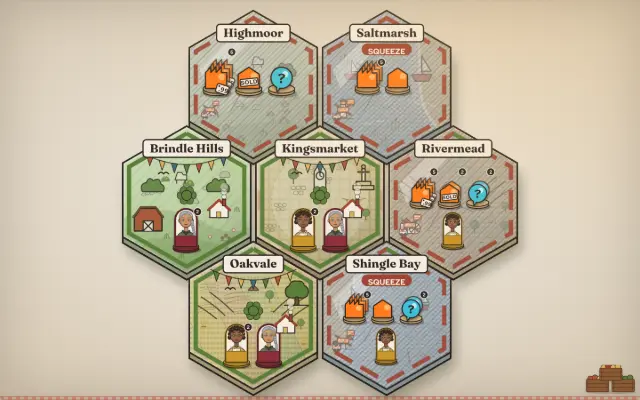
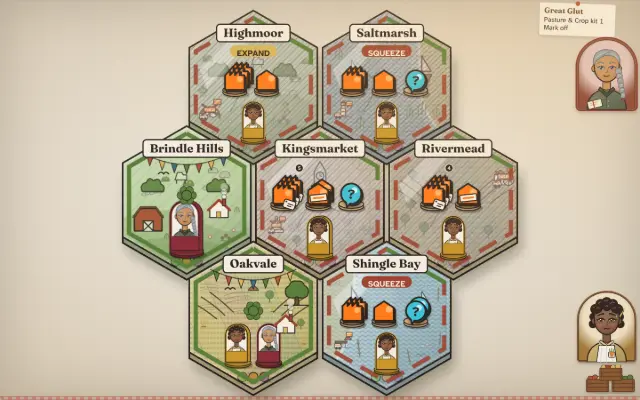
Cathnivore key art re-shot (item 172's board pieces); notes for the 19:51 lane A session
Claude-Session: https://claude.ai/code/session_01SimvMPv7qie5ycRgLqqZCp

diff --git a/PROGRESS.md b/PROGRESS.md
@@ -3,7 +3,7 @@
 Short by design (SPEC 16: under 150 lines). v1's full history (M0 to M7, every session's notes and the full deploy log) is in `docs/archive/PROGRESS-v1.md`; search it with grep and never read it in full.
 
 ## Now
-- Lane A (18:51): item 171 **done** (`81643fd8` Cathnivore dock, `a71e670f` Hedgerow's dock over the tray). Next open unclaimed: 172 (lane B has 174). **Check before releasing:** `site.spec.ts:327` (Hedgerow story, build a scarecrow, send a wave) fails locally at site-desktop on the old code too (seen 19:25); see if CI agrees. The **2026-11-05 19:51 session releases** if CI is green. `main` untouched at 9b4bfcfa.
+- Lane A (19:51): item 172 **done** (`1f48903e`); item 177 slice 1 (`0ca0b2a1`, Cathnivore points; Hedgerow and NIGHT SHIFT points open, still claimed by lane A). Release: the first run failed gate 5 on real CSP hits (Vignette style props on the 'Not yet' shelf; fixed `bc77dc45`) and a quick-game load timeout (passes alone); the second was killed with the worker (OOM: e2e run beside the gates; run nothing heavy beside a release). Third run: RELEASE_OUTCOME.
 - Critique bugs from the 09:35 shots (`e2e/screenshots/plan1103d/`): NIGHT SHIFT wordmark reportedly drops both 'H's at L and D (unconfirmed; the 14:55 D shot shows it whole). Runnel P's spring house and garden: closed 2026-11-04 (item 106).
 - Lane B: item 176 **done** (Runnel's desktop lesson panel as a field-notebook page). Items 126, 138 still claimed. `tests/keyart-fresh.test.ts` fails on build: Cathnivore's poster is older than its art (item 172's tokens), so `npm run keyart cathnivore` is owed; `hedgerow-swarm.spec.ts` at P times out (2026-11-05 20:21 session).
 - Critique bugs from the 2026-11-05 09:30 shots (`e2e/screenshots/plan1105c/`, lane B): `cath-title-D` pennant hint ~13 px white on brown (1030-1280 x 800-818) and footer ~12 px (310-1130 x 872-886); `cath-title-P` small keys' labels ~12 px (85-305 x 692-735); `cath-setup-D` seed 'random' low contrast (655-840 x 795-835); `hedge-l34-2d-D` '485 coming' over a farmer (300-395 x 128-150); `hedge-menu-P` 'Brand Ambassador' on the road (10-95 x 450-480); `ns-title-D` neon sign clipped at the top (790-1150 x 0-45); `ns-play-P` FIXER tab cut (340-390 x 68-82); `games-P` hero ghosted (likely shot mid-entrance: check before fixing).
@@ -37,6 +37,7 @@ None (Vercel deployed 9aee11e on 2026-10-12). (The App Store launch is postponed
 
 ## Session log (newest first, last 15)
 - **2026-11-05 20:21 lane B session:** CI red on 1f48903 (lane A, CSP fix after it). Item 176 done. Passing: runnel-lesson-notebook (new), critique91, lesson-hand, every runnel-* spec (practice and lesson-hand flaked once under load, passed alone) at phone and desktop; CSS lint, css-vars, runnel units. keyart-fresh fails on Cathnivore (not this change). Shots `t176` (D light and dark, P).
+- **2026-11-05 19:51 lane A session (release):** CI green on 40cd4712. Item 172 done (chunky tokens, piles, rows that step down; `e2e/board-tokens.spec.ts`); item 177 slice 1. Fixed the CSP gate (Vignette presentation attributes; csp.spec counts real declarations, not CSSOM custom properties). Passing: board-tokens (new, twice), board-pieces, -scales, -landmarks, region-closeup, csp, quick-game, player-mat, campaign-vignettes, table-producers, table-hand, tutorial, critique177 (new); piece-layout, region-ground, CSS lint. Shots `e2e/screenshots/p172`.
 - **2026-11-05 18:51 lane A session:** CI green on cf1c0137. Item 171 done (Cathnivore phone dock above the hand; Hedgerow phone dock over the tray). Passing: table-cath, moments, market-event-dressing, tutorial(-ch2), table-producers, accessibility, critique166, phone-hand-fan, rival (phone and desktop; disabled-actions flaked under load, passes alone and on the old code); hedgerow-catdock (new), -threat, -debrief, -flyin, -twists, -tray, -buildring, -round-chips, -critique(166), -depot, -gatequeue, -intro, -rack, site.spec's Hedgerow block; CSS lint. Shots `d171`.
 - **2026-11-05 19:21 lane B session:** CI green on 81643fd. Item 174 done. Passing: hedgerow-level-card (new), hedgerow-map (item 88 opens the phone sheet first), critique103 Hedgerow (vehicle names checked on their own line) at phone and desktop; CSS lint, css-vars, keyart-fresh. Shots `t174` (P peek and open, D, L, dark).
 - **2026-11-05 18:21 lane B session:** CI green on 5231691. Item 170 done (`63c7cce` and a clip fix). Passing: runnel-lesson-close (new), every runnel-* spec (runnel-water passed on rerun) at phone and desktop; CSS lint, css-vars, runnel units. Shots `t170` (lesson start, done, mid pull-back and daily, P and D).
@@ -50,4 +51,3 @@ None (Vercel deployed 9aee11e on 2026-10-12). (The App Store launch is postponed
 - **2026-11-05 13:51 lane A session:** CI green on 54ea9830. Item 160 slices 3-5 and done (`45185b65`, `c6271866`, `4ced28ab`). Item 153 slice 1. Passing: table-hand (new test), disabled-actions, action-hand, play-lift, suggest-move, tutorial (chromium); hedgerow-depot (new test, fails on the old code), -gatequeue, -map (new 153 test), -critique, -story, -intro, critique79, site.spec's Hedgerow block (site.spec:528 is the known load flake, passes alone); hedgerow unit; CSS lint and vars. Shots `e2e/screenshots/b160`. Full `npm run check` green on 0e95bfd9 (2393 tests, fuzz, build).
 - **2026-11-05 14:21 lane B session:** CI green on c627186; hedgerow-3dframe:111 passes again. Item 165 done (`placePhoneCath`; one-cath and lesson-frame specs updated from item 122).
 - **2026-11-05 12:51 lane A session:** CI green on 3fe88917. Planned items 160-165 (shots `plan1105d`, subagent critique). Item 163 done (`b31e49d8`; `e2e-site/hedgerow-rack.spec.ts`, shots `rack163`, key art re-shot). Item 160 slices 1-2 (`8532272a`, `5101ebac`). Passing: hedgerow-rack, -tray, -buildring, -3dframe (all, twice; :111 level 21 at P 10/10), Hedgerow unit tests (458), CSS lint and vars, keyart-fresh.
-- **2026-11-05 13:21 lane B session:** CI green on 3fe8891. Item 157 slice 3 and done (3D rep overlay, door at Go). hedgerow-3dframe:111 red on build at P and D (diagnosis started, noted under Now).

diff --git a/DECISIONS.md b/DECISIONS.md
@@ -253,3 +253,6 @@ Newest at the bottom. At most 5 lines per entry, under 250 lines in all (SPEC 16
 - 2026-11-05 19:25 (lane A): item 171's Hedgerow dock lies over the tray, not between the field and the tray: a 72 px row would take the phone field under item 10's 70% of the screen. So a tap anywhere on the dock hides it whole, and once folded, a plot picked or the round drawer opened, it stays away for the rest of that build; it sits under the drawer's handle. Cathnivore's phone dock replaces item 131's standing figure on the cloth (her bust is in the dock), freeing the board's foot.
 - 2026-11-05 19:21 (lane B): Hedgerow's level card stays docked under its act at D (it already met no stop; moving it beside the map would have narrowed the lane), and Cath's line runs under both the name and the vehicles, so the card stays short enough that the next act still peeks above the fold.
 - 2026-11-05 20:21 (lane B): Runnel's notebook steps sit on plain `var(--paper)`, not a see-through mix: a color-mix background computes as color(srgb ...), which item 91's contrast check can't read, and the opaque paper reads as clearly on the ruled page.
+- 2026-11-05 20:20 (lane A): item 172's map can't reach 75% of the board panel's width at D: the panel is height-bound and the hexes already fill 90%+ of its height, so the spec checks height (85%). Piece sizes are a median (36 px D, 24 P) with floors (32, 20) for a tile holding three kinds, a threat badge and two producers; the pieces grow only while the tile's landmark keeps a spot.
+- 2026-11-05 20:20 (lane A): csp.spec counts style attributes holding a real declaration, not ones holding only custom properties: those come from CSSOM `setProperty` (seats, the hand, Tooltip, TutorialCoach), which CSP never blocks. Markup style props (Vignette's) were the real violation and are presentation attributes now.
+- 2026-11-05 20:20 (lane A): item 177's hand: only hover or keyboard focus (`:has(:focus-visible)`) lifts a card, since a click-focused card stayed lifted over its neighbour's name; an overflowing name gets a wider card unless that breaks the single row, then a tighter 12 px name.

diff --git a/docs/plan/two-week-plan.md b/docs/plan/two-week-plan.md
@@ -2044,7 +2044,7 @@ The items come from fresh-eyes audits on 2026-11-01 and 2026-11-02 (items 25-32:
 - **Accept:** `.lesson-panel[data-notebook]`; each legend row has an inked glyph 28 px or more; a finished step has `data-ticked`; the page never scrolls at 1440x900; shots D light and dark (and P unchanged).
 - **Size:** 2
 
-## 177. [ ] The bugs from the 2026-11-05 18:30 critique, fixed as one batch *(lane A, in progress)*
+## 177. [ ] The bugs from the 2026-11-05 18:30 critique, fixed as one batch *(lane A, in progress)* *(slice 1, 2026-11-05 20:20 lane A, 0ca0b2a1: **fixed** the Injunction name (a clicked card stayed lifted over its neighbour: now only hover or keyboard focus lifts; a name that overflows its face is dealt a wider card, or set tighter where that breaks the row); the shelf's red reason 4.3 -> 5.2:1 in light (`--short-ink-shelf`). **Not reproduced:** the P 'NOT YET' tab is 12 px (`--fs-label`). `e2e/critique177.spec.ts`. Open: the Hedgerow and NIGHT SHIFT points)*
 - **Why:** subagent critique of `e2e/screenshots/plan1105f` (lane A). Fixed already: the 'Not yet' shelf's reasons running off the card (`cath-game-D` 220-322 x 700-716).
 - **Fix:**
   - `cath-game-D` (1195-1330 x 790-830): the fanned 'Injunction' card's name cut by its neighbour ('njunction', 'Brindle ...lls').
